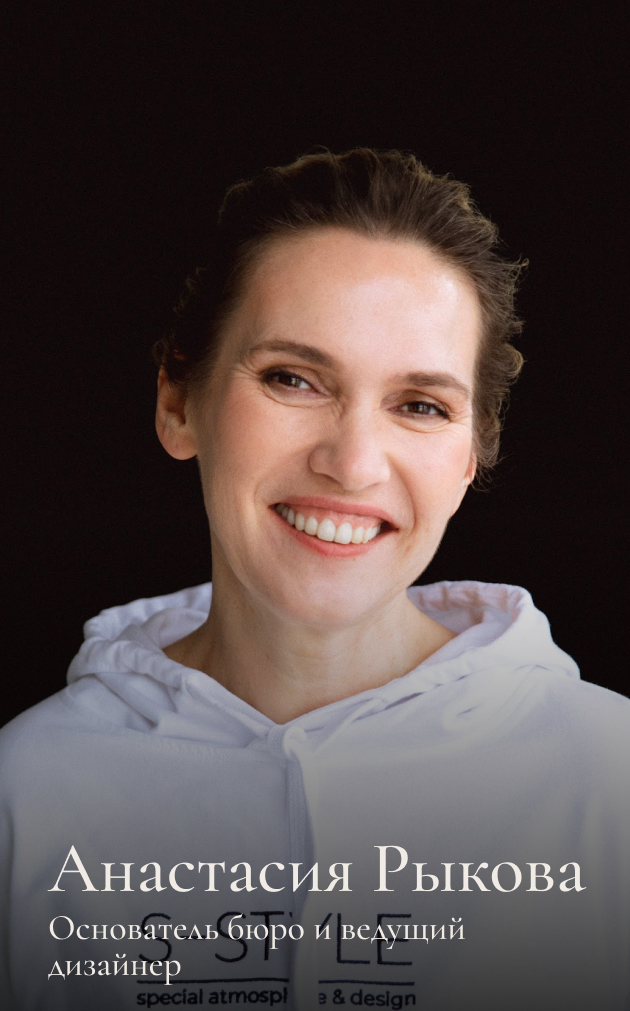
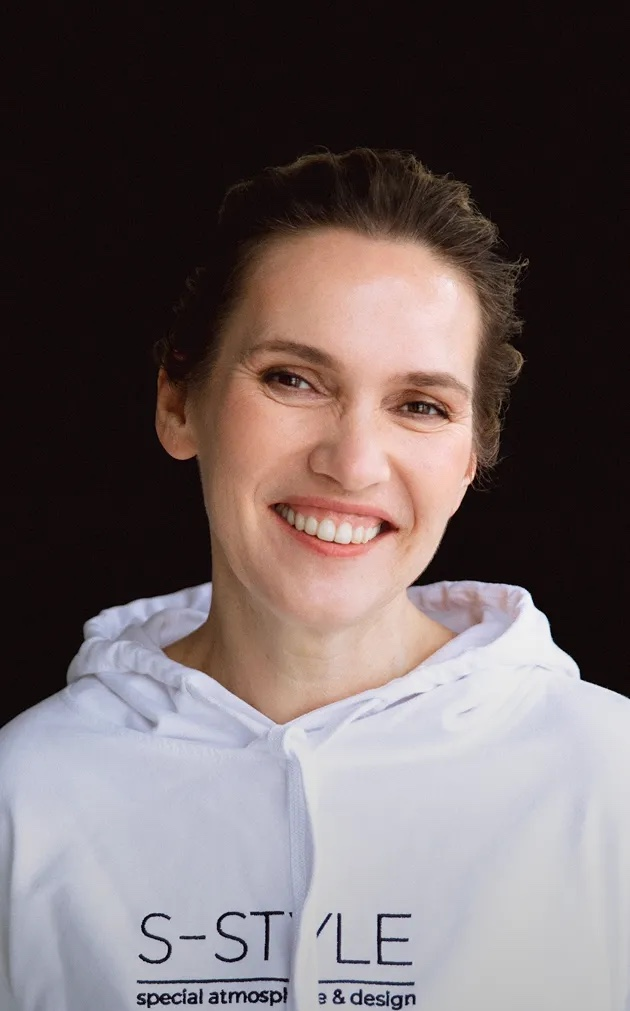
Publish Bulgakov and Savvinskaya from Figma, with matching crops and new team portraits.

diff --git a/projects/bulgakov.html b/projects/bulgakov.html
@@ -1,0 +1,159 @@
+<!DOCTYPE html>
+<html lang="ru">
+<head>
+  <meta charset="UTF-8" />
+  <meta name="viewport" content="width=device-width, initial-scale=1.0" />
+  <title>Квартира в ЖК «Булгаков» — Special-Style</title>
+  <link rel="preconnect" href="https://fonts.googleapis.com" />
+  <link rel="preconnect" href="https://fonts.gstatic.com" crossorigin />
+  <link href="https://fonts.googleapis.com/css2?family=Cormorant+Garamond:wght@500&family=Cormorant+SC:wght@600&family=Cormorant:wght@500&family=Jost:wght@300;400;500;600&display=swap" rel="stylesheet" />
+  <link rel="icon" href="../assets/logos/logo.svg" type="image/svg+xml" />
+  <link rel="stylesheet" href="../css/styles.css" />
+</head>
+<body>
+  <header class="site-header" data-overlay>
+    <a class="logo" href="../index.html" aria-label="Special-Style">
+      <img src="../assets/logos/logo.svg" alt="" width="65" height="80" />
+    </a>
+    <button class="nav-toggle" type="button" aria-label="Меню">Меню</button>
+    <nav class="nav-links">
+      <a href="../about.html">О бюро</a>
+      <a aria-current="page" href="../projects.html">Проекты</a>
+      <a href="../journal.html">Журнал</a>
+      <a href="../in-progress.html">В работе</a>
+    </nav>
+  </header>
+
+  <section class="hero" data-hero>
+    <img src="../assets/bulgakov/hero.jpg" alt="Квартира в ЖК Булгаков" width="4320" height="2400" />
+    <div class="hero-copy">
+      <h1>Квартира в ЖК «Булгаков»</h1>
+    </div>
+  </section>
+
+  <section class="detail-intro">
+    <dl class="facts">
+      <div><dt>Локация</dt><dd>Москва</dd></div>
+      <div><dt>Тип</dt><dd>Квартира</dd></div>
+      <div><dt>Площадь</dt><dd>202 м²</dd></div>
+      <div><dt>Год</dt><dd>2026</dd></div>
+      <div><dt>Фотография</dt><dd>Дмитрий Цыренщиков</dd></div>
+    </dl>
+    <p>Этот проект как и другие мы начинали с человека — кто здесь будет жить, с кем и как. Эта городская 200-метровая квартира для семьи с детьми. Первым разговором была не стилистика, а устройство дня: здесь на кухне часто готовят и в этот момент тоже хотят быть рядом, обедают всей семьёй за большим столом, дети играют на пианино, учатся. Планировка и сценарий жизни появились раньше, чем разговор об эстетике.</p>
+    <div></div>
+  </section>
+
+  <div class="gallery-row gallery-row--2r js-lightbox">
+    <img src="../assets/bulgakov/g1.jpg" alt="Гостиная в ЖК Булгаков" />
+    <img src="../assets/bulgakov/g2.jpg" alt="Столовая" />
+  </div>
+  <p class="gallery-copy">Этот проект хорошо отвечает на вопрос, зачем вообще нужен дизайнер. Смотря на интерьеры очевидно: такую квартиру нельзя купить с ремонтом от застройщика или найти на вторичном рынке. Здесь с первой минуты понятно, что у пространства есть хозяева: интерьер спокойный и выдержанный, но совершенно точно чей-то.</p>
+  <div class="gallery-row gallery-row--2 js-lightbox">
+    <img src="../assets/bulgakov/g3.jpg" alt="Гостиная и столовая" />
+    <img src="../assets/bulgakov/g4.jpg" alt="Коридор" />
+  </div>
+  <div class="gallery-copy">
+    <p class="kicker-line">Классика, собранная современными средствами</p>
+    <p>Эстетика квартиры классическая. Натуральный камень, штучный паркет, филёнчатые белые двери, мелкие вставки мозаики — традиционный словарь, к которому мы возвращаемся не из любви к декору, а потому что эти материалы достойно стареют и дают ощущение обжитого семейного дома, без актуальных трендов, но с чувством, что тут ждут и можно быть самим собой.</p>
+    <p>Мы не делали стилизацию под исторический интерьер. В стенах и за потолком — современная инженерия, свет и техника сегодняшнего дня. Традиционное и новое здесь не спорят, а держат друг друга: без классических материалов этот интерьер не был бы именно их домом, без современных решений — музейным.</p>
+  </div>
+  <div class="gallery-row gallery-row--2r js-lightbox">
+    <img src="../assets/bulgakov/g5.jpg" alt="Деталь интерьера" />
+    <img src="../assets/bulgakov/g6.jpg" alt="Столовая зона" />
+  </div>
+  <div class="gallery-copy">
+    <p class="kicker-line">Ванные: камень и современная пластика</p>
+    <p>Ванные — то место, где два языка проекта видны рядом. Профиль каменной отделки решён уже в современной пластике: лаконичные плоскости, скрытые крепления, минимум профилей. А рядом стоит тумба тёмного дерева на ножках как традиционный комод — и эта вещь, которая одна задаёт помещению характер и отменяет ощущение шаблонного нового интерьера.</p>
+  </div>
+  <div class="gallery-row gallery-row--3 js-lightbox">
+    <img src="../assets/bulgakov/g7.jpg" alt="Ванная комната" />
+    <img src="../assets/bulgakov/g8.jpg" alt="Каменная отделка ванной" />
+    <img src="../assets/bulgakov/g9.jpg" alt="Тумба в ванной" />
+  </div>
+  <div class="gallery-copy">
+    <p class="kicker-line">Детали, которые задают интонацию</p>
+    <p>В интерьере нет ни одной вещи, сделанной ради эффекта. Мозаика используется точечно, небольшими фрагментами — не как узор, а как признак ручной работы. Витрина в столовой для собрания посуды для семейных застолий, иконы — принятые верования в семье, welcome table на входе помимо красоты утилитарен: при входе в дом удобно оставить на нём вещи, пока раздеваешься. Крупные светильники с абажурами над столом вечером создают тёплую атмосферу в центре этой столовой, мягко освещая лишь самое важное — собравшуюся семью.</p>
+  </div>
+  <div class="gallery-row gallery-row--3 js-lightbox">
+    <img src="../assets/bulgakov/g10.jpg" alt="Витрина в столовой" />
+    <img src="../assets/bulgakov/g11.jpg" alt="Деталь столовой" />
+    <img src="../assets/bulgakov/g12.jpg" alt="Прихожая" />
+  </div>
+  <div class="gallery-copy">
+    <p class="kicker-line">Спальни и детские</p>
+    <p>Спальни решены тише общих комнат в квартире: тёплые нейтральные тона, текстиль, дополнительное низкое камерное освещение. В детских — места для учёбы и отдельная комната: в ней могут быть индивидуальные занятия, и она может быть и гостевой.</p>
+  </div>
+  <div class="gallery-row gallery-row--2r js-lightbox">
+    <img src="../assets/bulgakov/g13.jpg" alt="Спальня" />
+    <img src="../assets/bulgakov/g14.jpg" alt="Детская" />
+  </div>
+  <div class="gallery-copy">
+    <p class="kicker-line">Почему это наш проект</p>
+    <p>В интерьере этой квартиры есть индивидуальный характер её владельцев, и он считывается первым. У нашего бюро есть почерк, и в этой квартире он читается, но тише. Солируем в ней не мы — солируют предпочтения людей, которые здесь живут.</p>
+    <p>Удачным у нас в бюро становится проект, когда человек входит в новое пространство и чувствует его своим домом. Эта квартира — как раз про это.</p>
+  </div>
+  <div class="thumb-mosaic js-lightbox">
+    <img src="../assets/bulgakov/t01.jpg" alt="" />
+    <img src="../assets/bulgakov/t02.jpg" alt="" />
+    <img src="../assets/bulgakov/t03.jpg" alt="" />
+    <img src="../assets/bulgakov/t04.jpg" alt="" />
+    <img class="span-2" src="../assets/bulgakov/t05.jpg" alt="" />
+    <img class="span-2" src="../assets/bulgakov/t06.jpg" alt="" />
+    <img src="../assets/bulgakov/t07.jpg" alt="" />
+    <img src="../assets/bulgakov/t08.jpg" alt="" />
+    <img src="../assets/bulgakov/t09.jpg" alt="" />
+    <img src="../assets/bulgakov/t10.jpg" alt="" />
+    <img src="../assets/bulgakov/t11.jpg" alt="" />
+    <img src="../assets/bulgakov/t12.jpg" alt="" />
+    <img src="../assets/bulgakov/t13.jpg" alt="" />
+    <img src="../assets/bulgakov/t14.jpg" alt="" />
+    <img class="span-2" src="../assets/bulgakov/t15.jpg" alt="" />
+    <img src="../assets/bulgakov/t16.jpg" alt="" />
+    <img src="../assets/bulgakov/t17.jpg" alt="" />
+    <img class="span-2" src="../assets/bulgakov/t18.jpg" alt="" />
+    <img class="span-2" src="../assets/bulgakov/t19.jpg" alt="" />
+    <img src="../assets/bulgakov/t20.jpg" alt="" />
+    <img src="../assets/bulgakov/t21.jpg" alt="" />
+    <img src="../assets/bulgakov/t22.jpg" alt="" />
+    <img src="../assets/bulgakov/t23.jpg" alt="" />
+    <img src="../assets/bulgakov/t24.jpg" alt="" />
+    <img src="../assets/bulgakov/t25.jpg" alt="" />
+    <img class="span-2" src="../assets/bulgakov/t26.jpg" alt="" />
+    <img src="../assets/bulgakov/t27.jpg" alt="" />
+    <img src="../assets/bulgakov/t28.jpg" alt="" />
+    <img src="../assets/bulgakov/t29.jpg" alt="" />
+    <img src="../assets/bulgakov/t30.jpg" alt="" />
+    <img src="../assets/bulgakov/t31.jpg" alt="" />
+    <img src="../assets/bulgakov/t32.jpg" alt="" />
+    <img src="../assets/bulgakov/t33.jpg" alt="" />
+    <img src="../assets/bulgakov/t34.jpg" alt="" />
+    <img src="../assets/bulgakov/t35.jpg" alt="" />
+    <img src="../assets/bulgakov/t36.jpg" alt="" />
+    <img src="../assets/bulgakov/t37.jpg" alt="" />
+    <img src="../assets/bulgakov/t38.jpg" alt="" />
+    <img src="../assets/bulgakov/t39.jpg" alt="" />
+    <img src="../assets/bulgakov/t40.jpg" alt="" />
+  </div>
+
+  <nav class="pager">
+    <a href="moskva.html">← Предыдущий проект</a>
+    <a href="savvinskaya.html">Следующий проект →</a>
+  </nav>
+
+  <footer class="site-footer">
+    <a class="footer-logo" href="../index.html" aria-label="Special-Style">
+      <img src="../assets/logos/footer.svg" alt="" width="230" height="180" />
+    </a>
+    <div class="footer-links">
+      <a href="https://t.me/special_style" target="_blank" rel="noopener noreferrer">Telegram</a>
+      <span>·</span>
+      <a href="https://wa.me/79636380010" target="_blank" rel="noopener noreferrer">WhatsApp</a>
+      <span>·</span>
+      <a href="mailto:mail@special-style.ru">Mail</a>
+      <span>·</span>
+      <a href="../about.html#office">Москва</a>
+    </div>
+  </footer>
+  <script src="../js/main.js"></script>
+</body>
+</html>

diff --git a/projects/savvinskaya.html b/projects/savvinskaya.html
@@ -1,0 +1,158 @@
+<!DOCTYPE html>
+<html lang="ru">
+<head>
+  <meta charset="UTF-8" />
+  <meta name="viewport" content="width=device-width, initial-scale=1.0" />
+  <title>Квартира на Саввинской набережной — Special-Style</title>
+  <link rel="preconnect" href="https://fonts.googleapis.com" />
+  <link rel="preconnect" href="https://fonts.gstatic.com" crossorigin />
+  <link href="https://fonts.googleapis.com/css2?family=Cormorant+Garamond:wght@500&family=Cormorant+SC:wght@600&family=Cormorant:wght@500&family=Jost:wght@300;400;500;600&display=swap" rel="stylesheet" />
+  <link rel="icon" href="../assets/logos/logo.svg" type="image/svg+xml" />
+  <link rel="stylesheet" href="../css/styles.css" />
+</head>
+<body>
+  <header class="site-header" data-overlay>
+    <a class="logo" href="../index.html" aria-label="Special-Style">
+      <img src="../assets/logos/logo.svg" alt="" width="65" height="80" />
+    </a>
+    <button class="nav-toggle" type="button" aria-label="Меню">Меню</button>
+    <nav class="nav-links">
+      <a href="../about.html">О бюро</a>
+      <a aria-current="page" href="../projects.html">Проекты</a>
+      <a href="../journal.html">Журнал</a>
+      <a href="../in-progress.html">В работе</a>
+    </nav>
+  </header>
+
+  <section class="hero" data-hero>
+    <img src="../assets/savvinskaya/hero.jpg" alt="Квартира на Саввинской набережной" width="4320" height="2400" />
+    <div class="hero-copy">
+      <h1>Квартира<br />на Саввинской набережной</h1>
+    </div>
+  </section>
+
+  <section class="detail-intro">
+    <dl class="facts">
+      <div><dt>Локация</dt><dd>Москва</dd></div>
+      <div><dt>Тип</dt><dd>Квартира, старый фонд</dd></div>
+      <div><dt>Площадь</dt><dd>70 м²</dd></div>
+      <div><dt>Год</dt><dd>2026</dd></div>
+      <div><dt>Фотография</dt><dd>Сергей Красюк</dd></div>
+    </dl>
+    <p>Квартиры в старом фонде выбирают осознанно. Чаще всего — за локацию, и здесь она действительно хороша. И за окружение: более камерное, более узкое, чем в новом строительстве, — такое в современных комплексах встречается редко. Запрос на интерьер в таких домах откликается нашему почерку: здесь снова про сочетание традиционных элементов и решений сегодняшнего дня.</p>
+    <div></div>
+  </section>
+
+  <div class="gallery-row gallery-row--2r js-lightbox">
+    <img src="../assets/savvinskaya/g1.jpg" alt="Гостиная на Саввинской набережной" />
+    <img src="../assets/savvinskaya/g2.jpg" alt="Гостиная и столовая" />
+  </div>
+  <div class="gallery-copy">
+    <p class="kicker-line">С уважением к истории дома</p>
+    <p>Дом — сталинской архитектуры, и к его истории мы отнеслись бережно. В квартире появились вещи, которые немного ностальгируют: внутреннее окно между спальней и прихожей, постаменты из старого облицовочного кирпича в нишах при входе. Они не цитируют прошлое буквально — скорее дают квартире память о доме, в котором она находится.</p>
+  </div>
+  <div class="gallery-row gallery-row--full js-lightbox">
+    <img src="../assets/savvinskaya/g3.jpg" alt="Общий вид гостиной" />
+  </div>
+  <div class="gallery-copy">
+    <p class="kicker-line">Планировка: сценарии сегодняшнего дня</p>
+    <p>Планировки старых домов уже не вполне отвечают тому, как люди живут сейчас. Мы стали больше ценить свободное пространство: квадратные метры в мегаполисе стоят дорого, и воздух, элемент пустоты в квартире, становится роскошью. Но с другой стороны, каждой бытовой задаче нужно своё отдельное место.</p>
+    <p>Поэтому даже если вы предпочитаете эстетику старомосковской квартиры, гардеробная в наши дни — необходимый элемент: иначе вещи постепенно проникнут во все помещения, и ни о какой эстетике говорить уже не придётся. Здесь гардеробных две — при входе и при спальне.</p>
+  </div>
+  <div class="gallery-row gallery-row--3 js-lightbox">
+    <img src="../assets/savvinskaya/g4.jpg" alt="Гардеробная" />
+    <img src="../assets/savvinskaya/g5.jpg" alt="Прихожая" />
+    <img src="../assets/savvinskaya/g6.jpg" alt="Входная зона" />
+  </div>
+  <div class="gallery-copy">
+    <p class="kicker-line">Ванная — комната, а не санузел</p>
+    <p>Стирку мы вынесли в отдельную, пусть и совсем небольшую зону — не в ванную. Когда живёшь и работаешь в мегаполисе, хочется, чтобы ванная оставалась именно ванной комнатой: местом, где можно выдохнуть вечером или спокойно начать утро, не смешивая эти ритуалы с рутинными делами.</p>
+    <p>Несмотря на старый жилой фонд, здесь предусмотрено всё, что ждёшь от современного жилья: и ванна, и душевая зона, бойлер, отдельное место для стиральной машины.</p>
+  </div>
+  <div class="gallery-row gallery-row--3 js-lightbox">
+    <img src="../assets/savvinskaya/g7.jpg" alt="Ванная комната" />
+    <img src="../assets/savvinskaya/g8.jpg" alt="Ванна" />
+    <img src="../assets/savvinskaya/g9.jpg" alt="Душевая зона" />
+  </div>
+  <div class="gallery-copy">
+    <p class="kicker-line">Кухня — по сегодняшней мерке</p>
+    <p>Кухня, наоборот, перестала быть главным цехом квартиры. В городе — тем более в квартире с одной спальней — обедают чаще не дома, еду покупают на один-два приёма, и большие площади для запасов уже не нужны. Кухня осталась — для завтраков, гостей и вечернего чая — но заняла ровно столько места, сколько ей сегодня действительно положено.</p>
+  </div>
+  <div class="gallery-row gallery-row--2r js-lightbox">
+    <img src="../assets/savvinskaya/g10.jpg" alt="Кухня" />
+    <img src="../assets/savvinskaya/g11.jpg" alt="Кухня и столовая" />
+  </div>
+  <div class="gallery-copy">
+    <p class="kicker-line">Тёплая гамма — но не безликая</p>
+    <p>Квартира решена в тёплых светлых тонах, но это не тот беж, который подходит всем и потому ничей. Здесь есть винтажные вещи — старый расписной китайский комод, который прекрасно уживается с абсолютной современной классикой, лампой Taccia от FLOS. Традиционный диван в гостиной дополнен, наоборот, современными скандинавскими креслами.</p>
+  </div>
+  <div class="gallery-row gallery-row--2 js-lightbox">
+    <img src="../assets/savvinskaya/g12.jpg" alt="Гостиная с винтажным комодом" />
+    <img src="../assets/savvinskaya/g13.jpg" alt="Деталь гостиной" />
+  </div>
+  <p class="gallery-copy">Дверь в гостиную сделали витражной. Она задерживает звук из коридора, где расположены ванная, гардеробные и зона стирки, — и при этом пускает в него дневной свет.</p>
+  <div class="gallery-row gallery-row--2 js-lightbox">
+    <img src="../assets/savvinskaya/g14.jpg" alt="Витражная дверь и коридор" />
+    <img src="../assets/savvinskaya/g15.jpg" alt="Коридор" />
+  </div>
+  <p class="gallery-copy">Так в доме с историей получилась квартира, где уважение к прошлому соединилось со сценариями сегодняшней жизни. Она небольшая, спокойная — и с первого взгляда своя, обжитая, чья-то.</p>
+  <div class="thumb-mosaic js-lightbox">
+    <img src="../assets/savvinskaya/t01.jpg" alt="" />
+    <img src="../assets/savvinskaya/t02.jpg" alt="" />
+    <img src="../assets/savvinskaya/t03.jpg" alt="" />
+    <img src="../assets/savvinskaya/t04.jpg" alt="" />
+    <img src="../assets/savvinskaya/t05.jpg" alt="" />
+    <img class="span-2" src="../assets/savvinskaya/t06.jpg" alt="" />
+    <img src="../assets/savvinskaya/t07.jpg" alt="" />
+    <img src="../assets/savvinskaya/t08.jpg" alt="" />
+    <img src="../assets/savvinskaya/t09.jpg" alt="" />
+    <img src="../assets/savvinskaya/t10.jpg" alt="" />
+    <img class="span-2" src="../assets/savvinskaya/t11.jpg" alt="" />
+    <img src="../assets/savvinskaya/t12.jpg" alt="" />
+    <img class="span-2" src="../assets/savvinskaya/t13.jpg" alt="" />
+    <img src="../assets/savvinskaya/t14.jpg" alt="" />
+    <img src="../assets/savvinskaya/t15.jpg" alt="" />
+    <img class="span-2" src="../assets/savvinskaya/t16.jpg" alt="" />
+    <img class="span-2" src="../assets/savvinskaya/t17.jpg" alt="" />
+    <img class="span-2" src="../assets/savvinskaya/t18.jpg" alt="" />
+    <img src="../assets/savvinskaya/t19.jpg" alt="" />
+    <img src="../assets/savvinskaya/t20.jpg" alt="" />
+    <img src="../assets/savvinskaya/t21.jpg" alt="" />
+    <img src="../assets/savvinskaya/t22.jpg" alt="" />
+    <img src="../assets/savvinskaya/t23.jpg" alt="" />
+    <img class="span-2" src="../assets/savvinskaya/t24.jpg" alt="" />
+    <img src="../assets/savvinskaya/t25.jpg" alt="" />
+    <img src="../assets/savvinskaya/t26.jpg" alt="" />
+    <img src="../assets/savvinskaya/t27.jpg" alt="" />
+    <img src="../assets/savvinskaya/t28.jpg" alt="" />
+    <img src="../assets/savvinskaya/t29.jpg" alt="" />
+    <img src="../assets/savvinskaya/t30.jpg" alt="" />
+    <img src="../assets/savvinskaya/t31.jpg" alt="" />
+    <img src="../assets/savvinskaya/t32.jpg" alt="" />
+    <img src="../assets/savvinskaya/t33.jpg" alt="" />
+    <img src="../assets/savvinskaya/t34.jpg" alt="" />
+    <img src="../assets/savvinskaya/t35.jpg" alt="" />
+  </div>
+
+  <nav class="pager">
+    <a href="bulgakov.html">← Предыдущий проект</a>
+    <a href="dom-na-oke.html">Следующий проект →</a>
+  </nav>
+
+  <footer class="site-footer">
+    <a class="footer-logo" href="../index.html" aria-label="Special-Style">
+      <img src="../assets/logos/footer.svg" alt="" width="230" height="180" />
+    </a>
+    <div class="footer-links">
+      <a href="https://t.me/special_style" target="_blank" rel="noopener noreferrer">Telegram</a>
+      <span>·</span>
+      <a href="https://wa.me/79636380010" target="_blank" rel="noopener noreferrer">WhatsApp</a>
+      <span>·</span>
+      <a href="mailto:mail@special-style.ru">Mail</a>
+      <span>·</span>
+      <a href="../about.html#office">Москва</a>
+    </div>
+  </footer>
+  <script src="../js/main.js"></script>
+</body>
+</html>

diff --git a/projects.html b/projects.html
@@ -48,18 +48,18 @@
           <span class="thumb"><img src="assets/projects/moskva.jpg" alt="Апартаменты в башне Москва" /></span>
           <h2>Апартаменты в башне «Москва»</h2>
         </a>
-        <article class="project-card">
+        <a class="project-card" href="projects/bulgakov.html">
           <span class="thumb"><img src="assets/projects/bulgakov.jpg" alt="ЖК Булгаков" /></span>
           <h2>ЖК «Булгаков»</h2>
-        </article>
+        </a>
         <article class="project-card">
           <span class="thumb"><img src="assets/projects/little.jpg" alt="Таунхаус в комплексе Little" /></span>
           <h2>Таунхаус в комплексе Little</h2>
         </article>
-        <article class="project-card">
+        <a class="project-card" href="projects/savvinskaya.html">
           <span class="thumb"><img src="assets/projects/savvinskaya.jpg" alt="Саввинская набережная" /></span>
           <h2>Саввинская набережная</h2>
-        </article>
+        </a>
         <article class="project-card">
           <span class="thumb"><img src="assets/projects/sofiyskaya.jpg" alt="Софийская набережная" /></span>
           <h2>Софийская набережная</h2>

diff --git a/projects/moskva.html b/projects/moskva.html
@@ -85,7 +85,7 @@
 
   <nav class="pager">
     <a href="kotelniki.html">← Предыдущий проект</a>
-    <a href="dom-na-oke.html">Следующий проект →</a>
+    <a href="bulgakov.html">Следующий проект →</a>
   </nav>
 
   <footer class="site-footer">

diff --git a/projects/dom-na-oke.html b/projects/dom-na-oke.html
@@ -69,7 +69,7 @@
   </div>
 
   <nav class="pager">
-    <a href="moskva.html">← Предыдущий проект</a>
+    <a href="savvinskaya.html">← Предыдущий проект</a>
     <a href="krestovsky.html">Следующий проект →</a>
   </nav>
 

diff --git a/css/styles.css b/css/styles.css
@@ -767,6 +767,10 @@ textarea {
   margin: 0;
 }
 
+.gallery-copy p:not(.kicker-line) + p {
+  margin-top: 1.1em;
+}
+
 .gallery-copy .kicker-line {
   color: var(--olive);
   margin: 0 0 1.1em;
